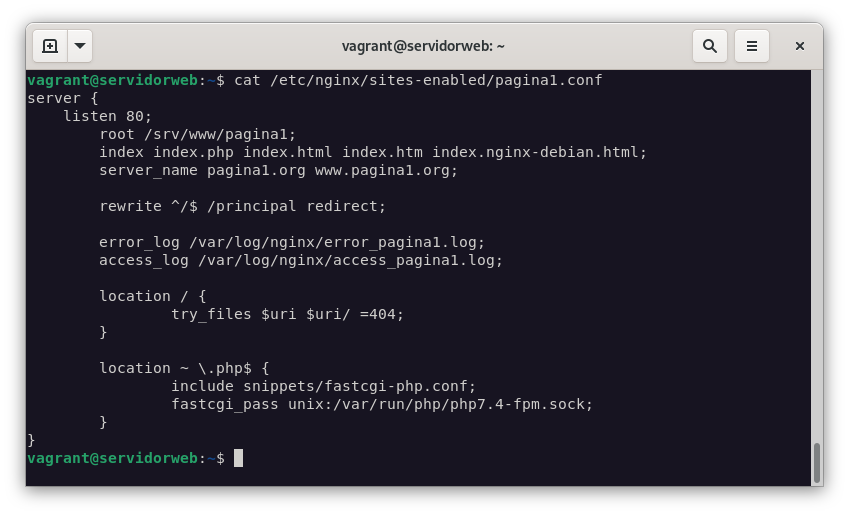
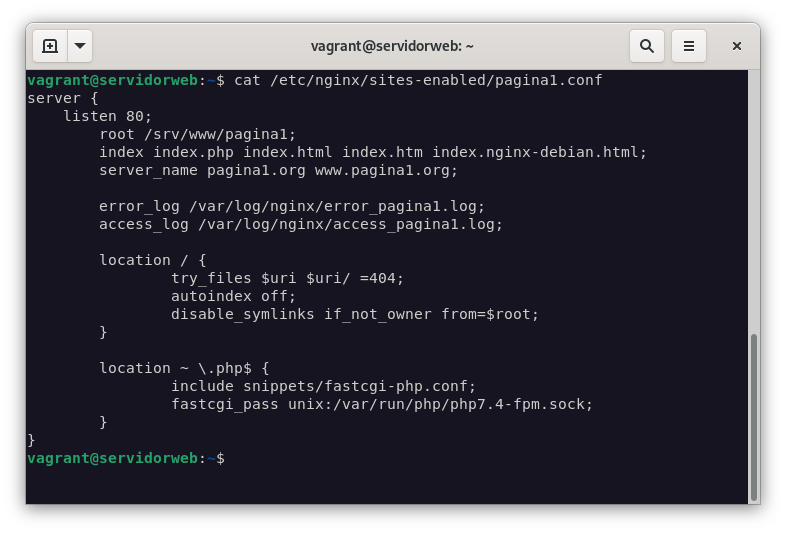
Añadida nueva entrada

diff --git a/hlc+sri/2022/11/13/ansible-nginx.html b/hlc+sri/2022/11/13/ansible-nginx.html
@@ -744,12 +744,16 @@ document.addEventListener('DOMContentLoaded', function(event) {
 
     <p>Si lo que queremos es que nginx redireccione a otra página, debemos añadir la siguiente línea en el fichero de configuración del virtualhost:</p>
 
-    <div class="language-plaintext highlighter-rouge">
-<div class="highlight"><pre class="highlight"><code> ```bash
- server {
-     rewrite ^/$ /principal redirect;
- }
- ```
+    <div class="language-bash highlighter-rouge">
+<div class="highlight"><pre class="highlight"><code>    server <span class="o">{</span>
+     rewrite ^/<span class="nv">$ </span>/principal redirect<span class="p">;</span>
+
+     location / <span class="o">{</span>
+         try_files <span class="nv">$uri</span> <span class="nv">$uri</span>/ <span class="o">=</span>404<span class="p">;</span>
+         autoindex off<span class="p">;</span>
+         disable_symlinks if_not_owner <span class="nv">from</span><span class="o">=</span><span class="nv">$root</span><span class="p">;</span>
+     <span class="o">}</span>
+ <span class="o">}</span>
 </code></pre></div>    </div>
 
     <p><img src="/assets/images/nginx/4.png" alt="4"></p>
@@ -757,7 +761,7 @@ document.addEventListener('DOMContentLoaded', function(event) {
     <p><img src="/assets/images/nginx/5.png" alt="5"></p>
   </li>
   <li>
-    <p>Si accedemos a la página <em>www.pagina1.org/principal/documentos</em> se visualizarán los documentos que tengamos en <em>/srv/doc</em>. Y se permitirá el listado y el seguimiento de enlaces simbólicos.</p>
+    <p>Si accedemos a la página <em>www.pagina1.org/principal/documentos</em> se visualizarán los documentos que tengamos en <em>/srv/doc</em>. Y no se permitirá el listado y el seguimiento de enlaces simbólicos.</p>
 
     <ul>
       <li>
@@ -773,9 +777,7 @@ document.addEventListener('DOMContentLoaded', function(event) {
 
         <div class="language-bash highlighter-rouge">
 <div class="highlight"><pre class="highlight"><code>  <span class="nb">echo</span> <span class="s2">"Hola Mundo"</span> <span class="o">&gt;</span> /srv/doc/doc1.txt
-  <span class="nb">ln</span> <span class="nt">-s</span> /srv/doc/doc1.txt /srv/www/pagina1/principal/documentos/doc1.txt
 </code></pre></div>        </div>
-        <p>En mi</p>
       </li>
       <li>
         <p>Modificamos el fichero <em>pagina1.conf</em> para que liste los ficheros del directorio <em>/srv/doc</em>.</p>
@@ -824,7 +826,7 @@ document.addEventListener('DOMContentLoaded', function(event) {
 
 <p>Tras todas las modificaciones, el fichero <em>pagina1.conf</em> quedaría de la siguiente forma:</p>
 
-<div class="language-bash highlighter-rouge"><div class="highlight"><pre class="highlight"><code>erver <span class="o">{</span>
+<div class="language-bash highlighter-rouge"><div class="highlight"><pre class="highlight"><code>server <span class="o">{</span>
     listen 80<span class="p">;</span>
         root /srv/www/pagina1<span class="p">;</span>
         index index.php index.html index.htm index.nginx-debian.html<span class="p">;</span>
@@ -836,7 +838,9 @@ document.addEventListener('DOMContentLoaded', function(event) {
         access_log /var/log/nginx/access_pagina1.log<span class="p">;</span>
 
         location / <span class="o">{</span>
-                try_files <span class="nv">$uri</span> <span class="nv">$uri</span>/ <span class="o">=</span>404<span class="p">;</span>
+            try_files <span class="nv">$uri</span> <span class="nv">$uri</span>/ <span class="o">=</span>404<span class="p">;</span>
+            autoindex off<span class="p">;</span>
+            disable_symlinks if_not_owner <span class="nv">from</span><span class="o">=</span><span class="nv">$root</span><span class="p">;</span>
         <span class="o">}</span>
        location /principal/documentos <span class="o">{</span>
             autoindex on<span class="p">;</span>
@@ -910,10 +914,10 @@ document.addEventListener('DOMContentLoaded', function(event) {
 <div class="post-related">
       <div>Related Articles</div>
       <ul>
-        <li><a class="post-link" href="/seguridad/2022/10/10/payload.html" title="">¿Qué diferencia hay entre exploit, vulnerabilidad y payload?</a></li>
-<li><a class="post-link" href="/python/2022/11/06/github.html" title="">Introducción a GitHub</a></li>
-<li><a class="post-link" href="/prueba/2022/10/10/prueba.html" title="">Prueba: Introducción a la implantación de aplicaciones web</a></li>
-<li><a class="post-link" href="/hlc+sri/2022/11/08/proxy.html" title="">Apache como proxy inverso</a></li>
+        <li><a class="post-link" href="/hlc+sri/2022/11/13/ansible-nginx.html" title="">Instalación de ngix con PHP con vagrant y ansible</a></li>
+<li><a class="post-link" href="/python/2022/09/29/inicio-python.html" title="">Introducción a la programación Python</a></li>
+<li><a class="post-link" href="/sri/2022/09/29/infraestructura.html" title="">Infraestructura como código</a></li>
+<li><a class="post-link" href="/bienvenida/2022/09/29/welcome-to-jekyll.html" title="">Bienvenid@</a></li>
 </ul>
     </div>
 <div class="post-comments"></div></section>

diff --git a/python/2022/09/29/inicio-python.html b/python/2022/09/29/inicio-python.html
@@ -862,10 +862,10 @@ print("La paella cuesta: ",coste_paella, "€.")
 <div class="post-related">
       <div>Related Articles</div>
       <ul>
-        <li><a class="post-link" href="/hlc+sri/2022/11/08/proxy.html" title="Crear un sitio web estático con Jekyll">Apache como proxy inverso</a></li>
-<li><a class="post-link" href="/hlc+sri/2022/11/13/ansible-nginx.html" title="Crear un sitio web estático con Jekyll">Instalación de ngix con PHP con vagrant y ansible</a></li>
-<li><a class="post-link" href="/bienvenida/2022/09/29/welcome-to-jekyll.html" title="Crear un sitio web estático con Jekyll">Bienvenid@</a></li>
-<li><a class="post-link" href="/python/2022/09/29/inicio-python.html" title="Crear un sitio web estático con Jekyll">Introducción a la programación Python</a></li>
+        <li><a class="post-link" href="/aso/2022/10/12/compilacion-paquete-makefile.html" title="Crear un sitio web estático con Jekyll">Compilar dos2unix partiendo del código fuente</a></li>
+<li><a class="post-link" href="/hlc+sri/2022/11/08/proxy.html" title="Crear un sitio web estático con Jekyll">Apache como proxy inverso</a></li>
+<li><a class="post-link" href="/hlc+sri/2022/11/06/virtualizaci%C3%B3n.html" title="Crear un sitio web estático con Jekyll">Virtualización en Linux</a></li>
+<li><a class="post-link" href="/sri/2022/09/29/infraestructura.html" title="Crear un sitio web estático con Jekyll">Infraestructura como código</a></li>
 </ul>
     </div>
 <div class="post-comments"></div></section>

diff --git a/sri/2022/09/29/infraestructura.html b/sri/2022/09/29/infraestructura.html
@@ -823,9 +823,9 @@ document.addEventListener('DOMContentLoaded', function(event) {
       <div>Related Articles</div>
       <ul>
         <li><a class="post-link" href="/hlc+sri/2022/11/08/proxy.html" title="¿Qué diferencia hay entre exploit, vulnerabilidad y payload?">Apache como proxy inverso</a></li>
-<li><a class="post-link" href="/hlc+sri/2022/11/06/virtualizaci%C3%B3n.html" title="¿Qué diferencia hay entre exploit, vulnerabilidad y payload?">Virtualización en Linux</a></li>
-<li><a class="post-link" href="/sri/2022/09/29/infraestructura.html" title="¿Qué diferencia hay entre exploit, vulnerabilidad y payload?">Infraestructura como código</a></li>
-<li><a class="post-link" href="/python/2022/11/06/github.html" title="¿Qué diferencia hay entre exploit, vulnerabilidad y payload?">Introducción a GitHub</a></li>
+<li><a class="post-link" href="/bienvenida/2022/09/29/welcome-to-jekyll.html" title="¿Qué diferencia hay entre exploit, vulnerabilidad y payload?">Bienvenid@</a></li>
+<li><a class="post-link" href="/python/2022/09/29/inicio-python.html" title="¿Qué diferencia hay entre exploit, vulnerabilidad y payload?">Introducción a la programación Python</a></li>
+<li><a class="post-link" href="/asgbd/2022/11/08/interconexion.html" title="¿Qué diferencia hay entre exploit, vulnerabilidad y payload?">Interconexiones de servidores</a></li>
 </ul>
     </div>
 <div class="post-comments"></div></section>

diff --git a/asgbd/2022/11/08/interconexion.html b/asgbd/2022/11/08/interconexion.html
@@ -1081,10 +1081,10 @@ $ service oracle restart</li>
 <div class="post-related">
       <div>Related Articles</div>
       <ul>
-        <li><a class="post-link" href="/prueba/2022/10/10/prueba.html" title="Instalación de ngix con PHP con vagrant y ansible">Prueba: Introducción a la implantación de aplicaciones web</a></li>
-<li><a class="post-link" href="/jekyll/2022/09/29/origen.html" title="Instalación de ngix con PHP con vagrant y ansible">Crear un sitio web estático con Jekyll</a></li>
-<li><a class="post-link" href="/python/2022/09/29/inicio-python.html" title="Instalación de ngix con PHP con vagrant y ansible">Introducción a la programación Python</a></li>
+        <li><a class="post-link" href="/sri/2022/09/29/infraestructura.html" title="Instalación de ngix con PHP con vagrant y ansible">Infraestructura como código</a></li>
 <li><a class="post-link" href="/bienvenida/2022/09/29/welcome-to-jekyll.html" title="Instalación de ngix con PHP con vagrant y ansible">Bienvenid@</a></li>
+<li><a class="post-link" href="/asgbd/2022/11/08/interconexion.html" title="Instalación de ngix con PHP con vagrant y ansible">Interconexiones de servidores</a></li>
+<li><a class="post-link" href="/hlc+sri/2022/11/06/virtualizaci%C3%B3n.html" title="Instalación de ngix con PHP con vagrant y ansible">Virtualización en Linux</a></li>
 </ul>
     </div>
 <div class="post-comments"></div></section>

diff --git a/aso/2022/10/12/compilacion-paquete-makefile.html b/aso/2022/10/12/compilacion-paquete-makefile.html
@@ -792,10 +792,10 @@ apt policy dos2unix
 <div class="post-related">
       <div>Related Articles</div>
       <ul>
-        <li><a class="post-link" href="/jekyll/2022/09/29/origen.html" title="Virtualización en Linux">Crear un sitio web estático con Jekyll</a></li>
-<li><a class="post-link" href="/sri/2022/09/29/infraestructura.html" title="Virtualización en Linux">Infraestructura como código</a></li>
-<li><a class="post-link" href="/aso/2022/10/12/compilacion-paquete-makefile.html" title="Virtualización en Linux">Compilar dos2unix partiendo del código fuente</a></li>
-<li><a class="post-link" href="/hlc+sri/2022/11/08/proxy.html" title="Virtualización en Linux">Apache como proxy inverso</a></li>
+        <li><a class="post-link" href="/seguridad/2022/10/10/payload.html" title="Virtualización en Linux">¿Qué diferencia hay entre exploit, vulnerabilidad y payload?</a></li>
+<li><a class="post-link" href="/hlc+sri/2022/11/06/virtualizaci%C3%B3n.html" title="Virtualización en Linux">Virtualización en Linux</a></li>
+<li><a class="post-link" href="/prueba/2022/10/10/prueba.html" title="Virtualización en Linux">Prueba: Introducción a la implantación de aplicaciones web</a></li>
+<li><a class="post-link" href="/asgbd/2022/11/08/interconexion.html" title="Virtualización en Linux">Interconexiones de servidores</a></li>
 </ul>
     </div>
 <div class="post-comments"></div></section>

diff --git a/hlc+sri/2022/11/08/proxy.html b/hlc+sri/2022/11/08/proxy.html
@@ -838,10 +838,10 @@ a2ensite app2.conf
 <div class="post-related">
       <div>Related Articles</div>
       <ul>
-        <li><a class="post-link" href="/python/2022/11/06/github.html" title="Interconexiones de servidores">Introducción a GitHub</a></li>
-<li><a class="post-link" href="/sri/2022/09/29/infraestructura.html" title="Interconexiones de servidores">Infraestructura como código</a></li>
-<li><a class="post-link" href="/hlc+sri/2022/11/08/proxy.html" title="Interconexiones de servidores">Apache como proxy inverso</a></li>
-<li><a class="post-link" href="/bienvenida/2022/09/29/welcome-to-jekyll.html" title="Interconexiones de servidores">Bienvenid@</a></li>
+        <li><a class="post-link" href="/seguridad/2022/10/10/payload.html" title="Interconexiones de servidores">¿Qué diferencia hay entre exploit, vulnerabilidad y payload?</a></li>
+<li><a class="post-link" href="/python/2022/09/29/inicio-python.html" title="Interconexiones de servidores">Introducción a la programación Python</a></li>
+<li><a class="post-link" href="/asgbd/2022/11/08/interconexion.html" title="Interconexiones de servidores">Interconexiones de servidores</a></li>
+<li><a class="post-link" href="/aso/2022/10/12/compilacion-paquete-makefile.html" title="Interconexiones de servidores">Compilar dos2unix partiendo del código fuente</a></li>
 </ul>
     </div>
 <div class="post-comments"></div></section>

diff --git a/prueba/2022/10/10/prueba.html b/prueba/2022/10/10/prueba.html
@@ -695,10 +695,10 @@ document.addEventListener('DOMContentLoaded', function(event) {
 <div class="post-related">
       <div>Related Articles</div>
       <ul>
-        <li><a class="post-link" href="/prueba/2022/10/10/prueba.html" title="Compilar dos2unix partiendo del código fuente">Prueba: Introducción a la implantación de aplicaciones web</a></li>
+        <li><a class="post-link" href="/sri/2022/09/29/infraestructura.html" title="Compilar dos2unix partiendo del código fuente">Infraestructura como código</a></li>
 <li><a class="post-link" href="/asgbd/2022/11/08/interconexion.html" title="Compilar dos2unix partiendo del código fuente">Interconexiones de servidores</a></li>
-<li><a class="post-link" href="/python/2022/11/06/github.html" title="Compilar dos2unix partiendo del código fuente">Introducción a GitHub</a></li>
-<li><a class="post-link" href="/hlc+sri/2022/11/06/virtualizaci%C3%B3n.html" title="Compilar dos2unix partiendo del código fuente">Virtualización en Linux</a></li>
+<li><a class="post-link" href="/python/2022/09/29/inicio-python.html" title="Compilar dos2unix partiendo del código fuente">Introducción a la programación Python</a></li>
+<li><a class="post-link" href="/hlc+sri/2022/11/08/proxy.html" title="Compilar dos2unix partiendo del código fuente">Apache como proxy inverso</a></li>
 </ul>
     </div>
 <div class="post-comments"></div></section>

diff --git a/python/2022/11/06/github.html b/python/2022/11/06/github.html
@@ -848,10 +848,10 @@ Y también tablas.
 <div class="post-related">
       <div>Related Articles</div>
       <ul>
-        <li><a class="post-link" href="/python/2022/11/06/github.html" title="Apache como proxy inverso">Introducción a GitHub</a></li>
-<li><a class="post-link" href="/python/2022/09/29/inicio-python.html" title="Apache como proxy inverso">Introducción a la programación Python</a></li>
-<li><a class="post-link" href="/hlc+sri/2022/11/13/ansible-nginx.html" title="Apache como proxy inverso">Instalación de ngix con PHP con vagrant y ansible</a></li>
-<li><a class="post-link" href="/hlc+sri/2022/11/06/virtualizaci%C3%B3n.html" title="Apache como proxy inverso">Virtualización en Linux</a></li>
+        <li><a class="post-link" href="/hlc+sri/2022/11/08/proxy.html" title="Apache como proxy inverso">Apache como proxy inverso</a></li>
+<li><a class="post-link" href="/seguridad/2022/10/10/payload.html" title="Apache como proxy inverso">¿Qué diferencia hay entre exploit, vulnerabilidad y payload?</a></li>
+<li><a class="post-link" href="/python/2022/11/06/github.html" title="Apache como proxy inverso">Introducción a GitHub</a></li>
+<li><a class="post-link" href="/aso/2022/10/12/compilacion-paquete-makefile.html" title="Apache como proxy inverso">Compilar dos2unix partiendo del código fuente</a></li>
 </ul>
     </div>
 <div class="post-comments"></div></section>

diff --git a/seguridad/2022/10/10/payload.html b/seguridad/2022/10/10/payload.html
@@ -810,9 +810,9 @@ Son controles de seguridad que se configuran incorrectamente o se dejan inseguro
       <div>Related Articles</div>
       <ul>
         <li><a class="post-link" href="/prueba/2022/10/10/prueba.html" title="Prueba: Introducción a la implantación de aplicaciones web">Prueba: Introducción a la implantación de aplicaciones web</a></li>
-<li><a class="post-link" href="/hlc+sri/2022/11/06/virtualizaci%C3%B3n.html" title="Prueba: Introducción a la implantación de aplicaciones web">Virtualización en Linux</a></li>
+<li><a class="post-link" href="/sri/2022/09/29/infraestructura.html" title="Prueba: Introducción a la implantación de aplicaciones web">Infraestructura como código</a></li>
 <li><a class="post-link" href="/seguridad/2022/10/10/payload.html" title="Prueba: Introducción a la implantación de aplicaciones web">¿Qué diferencia hay entre exploit, vulnerabilidad y payload?</a></li>
-<li><a class="post-link" href="/bienvenida/2022/09/29/welcome-to-jekyll.html" title="Prueba: Introducción a la implantación de aplicaciones web">Bienvenid@</a></li>
+<li><a class="post-link" href="/hlc+sri/2022/11/13/ansible-nginx.html" title="Prueba: Introducción a la implantación de aplicaciones web">Instalación de ngix con PHP con vagrant y ansible</a></li>
 </ul>
     </div>
 <div class="post-comments"></div></section>

diff --git a/bienvenida/2022/09/29/welcome-to-jekyll.html b/bienvenida/2022/09/29/welcome-to-jekyll.html
@@ -710,10 +710,10 @@ document.addEventListener('DOMContentLoaded', function(event) {
 <div class="post-related">
       <div>Related Articles</div>
       <ul>
-        <li><a class="post-link" href="/hlc+sri/2022/11/06/virtualizaci%C3%B3n.html" title="Infraestructura como código">Virtualización en Linux</a></li>
+        <li><a class="post-link" href="/sri/2022/09/29/infraestructura.html" title="Infraestructura como código">Infraestructura como código</a></li>
 <li><a class="post-link" href="/asgbd/2022/11/08/interconexion.html" title="Infraestructura como código">Interconexiones de servidores</a></li>
-<li><a class="post-link" href="/python/2022/11/06/github.html" title="Infraestructura como código">Introducción a GitHub</a></li>
-<li><a class="post-link" href="/sri/2022/09/29/infraestructura.html" title="Infraestructura como código">Infraestructura como código</a></li>
+<li><a class="post-link" href="/hlc+sri/2022/11/13/ansible-nginx.html" title="Infraestructura como código">Instalación de ngix con PHP con vagrant y ansible</a></li>
+<li><a class="post-link" href="/aso/2022/10/12/compilacion-paquete-makefile.html" title="Infraestructura como código">Compilar dos2unix partiendo del código fuente</a></li>
 </ul>
     </div>
 <div class="post-comments"></div></section>

diff --git a/hlc+sri/2022/11/06/virtualización.html b/hlc+sri/2022/11/06/virtualización.html
@@ -909,10 +909,10 @@ la página oficial es linuxcontainers.org.</li>
 <div class="post-related">
       <div>Related Articles</div>
       <ul>
-        <li><a class="post-link" href="/prueba/2022/10/10/prueba.html" title="Introducción a GitHub">Prueba: Introducción a la implantación de aplicaciones web</a></li>
-<li><a class="post-link" href="/python/2022/11/06/github.html" title="Introducción a GitHub">Introducción a GitHub</a></li>
+        <li><a class="post-link" href="/jekyll/2022/09/29/origen.html" title="Introducción a GitHub">Crear un sitio web estático con Jekyll</a></li>
+<li><a class="post-link" href="/sri/2022/09/29/infraestructura.html" title="Introducción a GitHub">Infraestructura como código</a></li>
 <li><a class="post-link" href="/seguridad/2022/10/10/payload.html" title="Introducción a GitHub">¿Qué diferencia hay entre exploit, vulnerabilidad y payload?</a></li>
-<li><a class="post-link" href="/jekyll/2022/09/29/origen.html" title="Introducción a GitHub">Crear un sitio web estático con Jekyll</a></li>
+<li><a class="post-link" href="/aso/2022/10/12/compilacion-paquete-makefile.html" title="Introducción a GitHub">Compilar dos2unix partiendo del código fuente</a></li>
 </ul>
     </div>
 <div class="post-comments"></div></section>

diff --git a/jekyll/2022/09/29/origen.html b/jekyll/2022/09/29/origen.html
@@ -750,10 +750,10 @@ $ bundle exec jekyll serve
 <div class="post-related">
       <div>Related Articles</div>
       <ul>
-        <li><a class="post-link" href="/asgbd/2022/11/08/interconexion.html" title="Bienvenid@">Interconexiones de servidores</a></li>
+        <li><a class="post-link" href="/prueba/2022/10/10/prueba.html" title="Bienvenid@">Prueba: Introducción a la implantación de aplicaciones web</a></li>
+<li><a class="post-link" href="/jekyll/2022/09/29/origen.html" title="Bienvenid@">Crear un sitio web estático con Jekyll</a></li>
 <li><a class="post-link" href="/python/2022/09/29/inicio-python.html" title="Bienvenid@">Introducción a la programación Python</a></li>
-<li><a class="post-link" href="/seguridad/2022/10/10/payload.html" title="Bienvenid@">¿Qué diferencia hay entre exploit, vulnerabilidad y payload?</a></li>
-<li><a class="post-link" href="/python/2022/11/06/github.html" title="Bienvenid@">Introducción a GitHub</a></li>
+<li><a class="post-link" href="/sri/2022/09/29/infraestructura.html" title="Bienvenid@">Infraestructura como código</a></li>
 </ul>
     </div>
 <div class="post-comments"></div></section>
